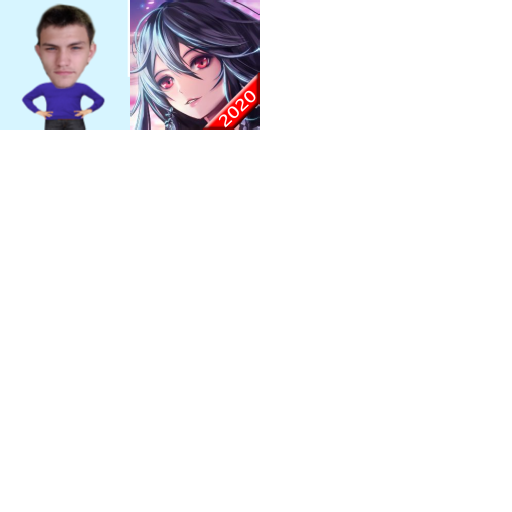
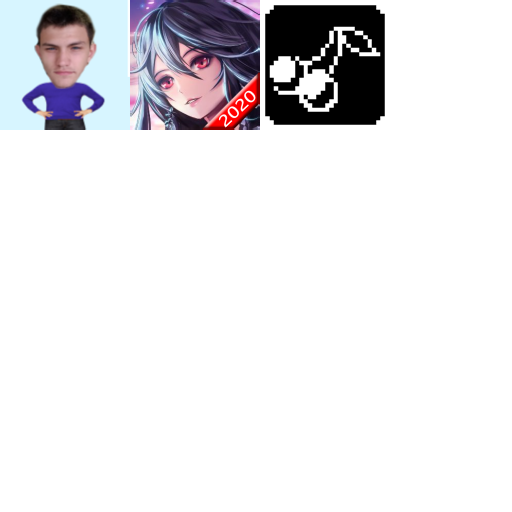
hj

Changed region(s): [[0.5, 0.0, 0.75, 0.25]]

diff --git a/zhukarcade/data.js b/zhukarcade/data.js
@@ -1,1 +1,1 @@
-{"project": [null,"Layout 1",[[0,true,false,false,false,false,false,false,false,false],[1,true,false,false,false,false,false,false,false,false],[2,false,true,true,true,true,true,true,true,false]],[["t0",2,false,[],1,0,null,[["Default",5,false,1,0,false,8729553413497399,[["images/black-sheet0.png",155,0,0,250,250,1,0.5,0.5,[],[],4]]]],[["Fade",3,7585447175772735]],false,false,7387607240222709,[],null],["t1",2,false,[5264834202259024],0,0,null,[["Default",5,false,1,0,false,7266523906679442,[["images/logo-sheet0.png",10182,0,0,693,76,1,0.5007215142250061,0.5,[],[],0]]]],[],false,false,3768893213110195,[],null],["t2",2,false,[7465671858647733],0,0,null,[["Default",0,false,1,0,false,9752546712139465,[["images/button-sheet0.png",112195,1,1,128,128,1,0.5,0.5,[],[],0],["images/button-sheet0.png",112195,131,1,128,128,1,0.5,0.5,[],[],0],["images/button-sheet0.png",112195,261,1,128,128,1,0.5,0.5,[],[],0],["images/button-sheet0.png",112195,1,131,128,128,1,0.5,0.5,[],[],0],["images/button-sheet0.png",112195,131,131,128,128,1,0.5,0.5,[],[],0],["images/button-sheet0.png",112195,261,131,128,128,1,0.5,0.5,[],[],0],["images/button-sheet0.png",112195,1,261,128,128,1,0.5,0.5,[],[],0],["images/button-sheet0.png",112195,131,261,128,128,1,0.5,0.5,[],[],0],["images/button-sheet0.png",112195,261,261,128,128,1,0.5,0.5,[],[],0],["images/button-sheet1.png",58083,1,1,128,128,1,0.5,0.5,[],[],0],["images/button-sheet1.png",58083,131,1,128,128,1,0.5,0.5,[],[],0]]]],[],false,false,9980455744818507,[],null],["t3",0,false,[],0,0,null,null,[],false,false,3950556047889374,[],null,[1]],["t4",1,false,[],0,0,null,null,[],false,false,1058401059279333,[],null,[]],["t5",2,false,[],0,0,null,[["Default",5,false,1,0,false,129155538360011,[["images/sprite-sheet0.png",368710,0,0,512,384,1,0.5,0.5,[],[],1]]]],[],false,false,1081738395218617,[],null]],[],[["Layout 1",1024,1024,true,"Event sheet 1",1530669330642996,[["Layer 0",0,3330524870586053,true,[0,0,0],false,1,1,1,false,false,1,0,0,[[[512,96,0,693,76,0,0,1,0.5007215142250061,0.5,0,0,[]],1,1,[[0]],[],[0,"Default",0,1]],[[224,256,0,128,128,0,0,1,0.5,0.5,0,0,[]],2,2,[["https://ashesandburden.netlify.com"]],[],[0,"Default",0,1]],[[416,256,0,128,128,0,0,1,0.5,0.5,0,0,[]],2,3,[["https://sircowboy.netlify.com"]],[],[0,"Default",1,1]],[[608,256,0,128,128,0,0,1,0.5,0.5,0,0,[]],2,4,[["https://platformer1.netlify.com/"]],[],[0,"Default",2,1]],[[800,256,0,128,128,0,0,1,0.5,0.5,0,0,[]],2,5,[["https://virtulitee.netlify.com/"]],[],[0,"Default",3,1]],[[224,448,0,128,128,0,0,1,0.5,0.5,0,0,[]],2,6,[["https://zhukfighter.netlify.com"]],[],[0,"Default",4,1]],[[416,448,0,128,128,0,0,1,0.5,0.5,0,0,[]],2,7,[["https://trah.netlify.com/"]],[],[0,"Default",5,1]],[[608,448,0,128,128,0,0,1,0.5,0.5,0,0,[]],2,8,[["https://debils.netlify.com/"]],[],[0,"Default",6,1]],[[800,448,0,128,128,0,0,1,0.5,0.5,0,0,[]],2,9,[["https://competent-meninsky-d45b45.netlify.com/"]],[],[0,"Default",7,1]],[[320,640,0,128,128,0,0,1,0.5,0.5,0,0,[]],2,12,[["http://ddnvd.ru/secha/"]],[],[0,"Default",8,1]],[[512,640,0,128,128,0,0,1,0.5,0.5,0,0,[]],2,13,[["http://ddnvd.ru/sas/"]],[],[0,"Default",9,1]],[[512,864,0,384,288,0,0,1,0.5,0.5,0,0,[]],5,14,[],[],[1,"Default",0,1]],[[704,640,0,128,128,0,0,1,0.5,0.5,0,0,[]],2,15,[["http://ddnvd.ru/chinese/"]],[],[0,"Default",10,1]]],[]],["Layer 1",1,8749605358381316,true,[255,255,255],true,1,1,1,false,false,1,0,0,[[[515,515,0,1024,1024,0,0,1,0.5,0.5,0,0,[]],0,0,[],[[1,0,0,1,1]],[0,"Default",0,1]]],[]]],[],[]]],[["Event sheet 1",[[0,null,false,null,6743612669005715,[[3,4,null,1,false,false,false,1880414996016881,false,[[4,2]]]],[[4,5,null,4786341105401476,false,[[1,[21,2,true,null,0]],[3,0]]]]],[0,null,false,null,2494595899420115,[[3,4,null,1,false,false,false,8036022015270609,false,[[4,1]]]],[[1,6,null,493753392889241,false,[[10,0],[7,[0,1]]]]]],[0,null,false,null,2414228189421093,[[1,7,null,0,false,false,false,4525638202724129,false,[[10,0],[8,0],[7,[0,13]]]]],[[1,6,null,152056757639573,false,[[10,0],[7,[0,1]]]],[5,8,null,4306711313903181,false,[[3,1]]]]]]]],[],"media/",false,1024,1024,4,true,true,true,"1.1",true,false,2,0,16,false,true,1,true,"zhuk arcade",0,[]]}
+{"project": [null,"Layout 1",[[0,true,false,false,false,false,false,false,false,false],[1,true,false,false,false,false,false,false,false,false],[2,false,true,true,true,true,true,true,true,false]],[["t0",2,false,[],1,0,null,[["Default",5,false,1,0,false,8729553413497399,[["images/black-sheet0.png",155,0,0,250,250,1,0.5,0.5,[],[],4]]]],[["Fade",3,7585447175772735]],false,false,7387607240222709,[],null],["t1",2,false,[5264834202259024],0,0,null,[["Default",5,false,1,0,false,7266523906679442,[["images/logo-sheet0.png",10182,0,0,693,76,1,0.5007215142250061,0.5,[],[],0]]]],[],false,false,3768893213110195,[],null],["t2",2,false,[7465671858647733],0,0,null,[["Default",0,false,1,0,false,9752546712139465,[["images/button-sheet0.png",112195,1,1,128,128,1,0.5,0.5,[],[],0],["images/button-sheet0.png",112195,131,1,128,128,1,0.5,0.5,[],[],0],["images/button-sheet0.png",112195,261,1,128,128,1,0.5,0.5,[],[],0],["images/button-sheet0.png",112195,1,131,128,128,1,0.5,0.5,[],[],0],["images/button-sheet0.png",112195,131,131,128,128,1,0.5,0.5,[],[],0],["images/button-sheet0.png",112195,261,131,128,128,1,0.5,0.5,[],[],0],["images/button-sheet0.png",112195,1,261,128,128,1,0.5,0.5,[],[],0],["images/button-sheet0.png",112195,131,261,128,128,1,0.5,0.5,[],[],0],["images/button-sheet0.png",112195,261,261,128,128,1,0.5,0.5,[],[],0],["images/button-sheet1.png",61142,1,1,128,128,1,0.5,0.5,[],[],0],["images/button-sheet1.png",61142,131,1,128,128,1,0.5,0.5,[],[],0],["images/button-sheet1.png",61142,261,1,128,128,1,0.5,0.5,[],[-0.4296875,-0.4296875,0,-0.5,0.4296875,-0.4296875,0.5,0,0.4296875,0.4296875,0,0.5,-0.4296875,0.4296875,-0.5,0],0]]]],[],false,false,9980455744818507,[],null],["t3",1,false,[],0,0,null,null,[],false,false,3950556047889374,[],null,[1]],["t4",0,false,[],0,0,null,null,[],false,false,1058401059279333,[],null,[]],["t5",2,false,[],0,0,null,[["Default",5,false,1,0,false,129155538360011,[["images/sprite-sheet0.png",368710,0,0,512,384,1,0.5,0.5,[],[],1]]]],[],false,false,1081738395218617,[],null]],[],[["Layout 1",1024,1024,true,"Event sheet 1",1530669330642996,[["Layer 0",0,3330524870586053,true,[0,0,0],false,1,1,1,false,false,1,0,0,[[[512,96,0,693,76,0,0,1,0.5007215142250061,0.5,0,0,[]],1,1,[[0]],[],[0,"Default",0,1]],[[224,256,0,128,128,0,0,1,0.5,0.5,0,0,[]],2,2,[["https://ashesandburden.netlify.com"]],[],[0,"Default",0,1]],[[416,256,0,128,128,0,0,1,0.5,0.5,0,0,[]],2,3,[["https://sircowboy.netlify.com"]],[],[0,"Default",1,1]],[[608,256,0,128,128,0,0,1,0.5,0.5,0,0,[]],2,4,[["https://platformer1.netlify.com/"]],[],[0,"Default",2,1]],[[800,256,0,128,128,0,0,1,0.5,0.5,0,0,[]],2,5,[["https://virtulitee.netlify.com/"]],[],[0,"Default",3,1]],[[224,448,0,128,128,0,0,1,0.5,0.5,0,0,[]],2,6,[["https://zhukfighter.netlify.com"]],[],[0,"Default",4,1]],[[416,448,0,128,128,0,0,1,0.5,0.5,0,0,[]],2,7,[["https://trah.netlify.com/"]],[],[0,"Default",5,1]],[[608,448,0,128,128,0,0,1,0.5,0.5,0,0,[]],2,8,[["https://debils.netlify.com/"]],[],[0,"Default",6,1]],[[800,448,0,128,128,0,0,1,0.5,0.5,0,0,[]],2,9,[["https://competent-meninsky-d45b45.netlify.com/"]],[],[0,"Default",7,1]],[[224,640,0,128,128,0,0,1,0.5,0.5,0,0,[]],2,12,[["http://ddnvd.ru/secha/"]],[],[0,"Default",8,1]],[[416,640,0,128,128,0,0,1,0.5,0.5,0,0,[]],2,13,[["http://ddnvd.ru/sas/"]],[],[0,"Default",9,1]],[[512,864,0,384,288,0,0,1,0.5,0.5,0,0,[]],5,14,[],[],[1,"Default",0,1]],[[608,640,0,128,128,0,0,1,0.5,0.5,0,0,[]],2,15,[["http://ddnvd.ru/chinese/"]],[],[0,"Default",10,1]],[[800,640,0,128,128,0,0,1,0.5,0.5,0,0,[]],2,16,[["http://ddnvd.ru/rmg/"]],[],[0,"Default",11,1]]],[]],["Layer 1",1,8749605358381316,true,[255,255,255],true,1,1,1,false,false,1,0,0,[[[515,515,0,1024,1024,0,0,1,0.5,0.5,0,0,[]],0,0,[],[[1,0,0,1,1]],[0,"Default",0,1]]],[]]],[],[]]],[["Event sheet 1",[[0,null,false,null,6743612669005715,[[3,4,null,1,false,false,false,1880414996016881,false,[[4,2]]]],[[4,5,null,4786341105401476,false,[[1,[21,2,true,null,0]],[3,0]]]]],[0,null,false,null,2494595899420115,[[3,4,null,1,false,false,false,8036022015270609,false,[[4,1]]]],[[1,6,null,493753392889241,false,[[10,0],[7,[0,1]]]]]],[0,null,false,null,2414228189421093,[[1,7,null,0,false,false,false,4525638202724129,false,[[10,0],[8,0],[7,[0,13]]]]],[[1,6,null,152056757639573,false,[[10,0],[7,[0,1]]]],[5,8,null,4306711313903181,false,[[3,1]]]]]]]],[],"media/",false,1024,1024,4,true,true,true,"1.1",true,false,2,0,17,false,true,1,true,"zhuk arcade",0,[]]}

diff --git a/zhukarcade/c2runtime.js b/zhukarcade/c2runtime.js
@@ -18052,8 +18052,8 @@ cr.behaviors.Fade = function(runtime)
 	behaviorProto.exps = new Exps();
 }());
 cr.getObjectRefTable = function () { return [
-	cr.plugins_.Touch,
 	cr.plugins_.Browser,
+	cr.plugins_.Touch,
 	cr.plugins_.Sprite,
 	cr.behaviors.Fade,
 	cr.plugins_.Touch.prototype.cnds.OnTouchObject,
